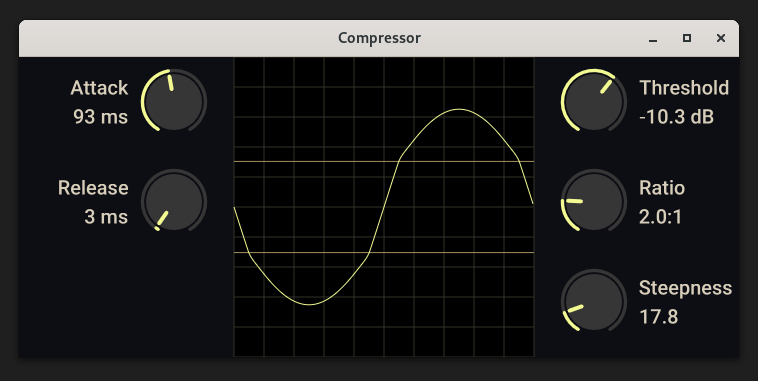
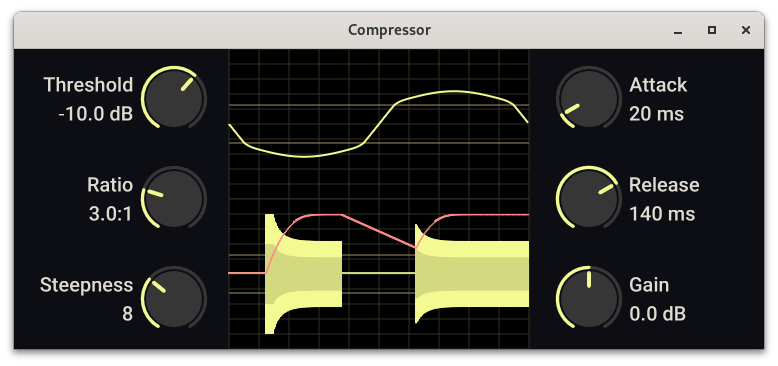
Add gain knob

diff --git a/src/editor/stylesheet.css b/src/editor/stylesheet.css
@@ -6,21 +6,19 @@
 .param_knob {
     width: 70px;
     height: 70px;
-    color: #001aff;
-    space: 10px;
+    space: 5px;
 }
 
 .param_knob_area {
     width: 200px;
     height: 70px;
-    right: 0;
-    left: 0;
+    top: 10px;
 }
 
 label {
     child-space: 1s;
     font-size: 20;
-    color: #d7ceba;
+    color: #e0dbd1;
     right: 0px;
 }
 
@@ -54,14 +52,14 @@ sineview {
     background-color: #f3fa92;
     width: 300px;
     space: 0px;
-    left: 15px;
-    right: 15px;
 }
 
 timeconstants {
     background-color: #f3fa92;
     width: 300px;
     space: 0px;
-    left: 15px;
-    right: 15px;
+}
+
+.scopes {
+    right: 20px;
 }

diff --git a/src/lib.rs b/src/lib.rs
@@ -4,9 +4,9 @@ use nih_plug::prelude::*;
 use nih_plug_vizia::ViziaState;
 use std::sync::Arc;
 
+mod compressor;
 pub mod csv_debugging;
 mod editor;
-mod compressor;
 
 pub struct Compressor {
     params: Arc<CompressorParams>,
@@ -28,6 +28,8 @@ pub struct CompressorParams {
     pub release: FloatParam, // [0, inf), milliseconds
     #[id = "steepness"]
     pub steepness: FloatParam, // [0, inf)
+    #[id = "gain"]
+    pub gain: FloatParam, // stored as gain, entered in dB
 
     #[cfg(feature = "detailed_debugging")]
     #[id = "logger_length"]
@@ -42,25 +44,43 @@ impl Compressor {
         _context: &mut impl ProcessContext<Self>,
     ) -> Result<(), &'static str> {
         #[cfg(feature = "detailed_debugging")]
-        self.algo.logger.set_quit_after_n_samples(self.params.logger_length.value());
+        self.algo
+            .logger
+            .set_quit_after_n_samples(self.params.logger_length.value());
 
         for channel_samples in buffer.iter_samples() {
             // TODO: can be seen from audio layout right?
-            #[cfg(feature = "detailed_debugging")] {
+            #[cfg(feature = "detailed_debugging")]
+            {
                 if channel_samples.len() > 1 {
-                    panic!("Too many channels for detailed debugging to support: {:?}", channel_samples.len());
+                    panic!(
+                        "Too many channels for detailed debugging to support: {:?}",
+                        channel_samples.len()
+                    );
                 }
             }
 
-            // TODO: make smoothed.next() instead of value
             let threshold = self.params.threshold.smoothed.next();
             let ratio = self.params.ratio.smoothed.next();
             let attack = self.params.attack.smoothed.next() / 1000.0;
             let release = self.params.release.smoothed.next() / 1000.0;
             let steepness = self.params.steepness.smoothed.next();
+            let gain = self.params.gain.smoothed.next();
 
-            self.algo.process_samples(channel_samples.into_iter().next().expect("Expect at least one channel"), 
-                compressor::RawParameters { threshold, ratio, steepness, attack, release })?;
+            self.algo.process_samples(
+                channel_samples
+                    .into_iter()
+                    .next()
+                    .expect("Expect at least one channel"),
+                compressor::RawParameters {
+                    threshold,
+                    ratio,
+                    steepness,
+                    attack,
+                    release,
+                    gain,
+                },
+            )?;
         }
 
         Ok(())
@@ -83,7 +103,7 @@ impl Default for CompressorParams {
             editor_state: editor::default_state(),
             threshold: FloatParam::new(
                 "Threshold",
-                util::db_to_gain(0.0),
+                util::db_to_gain(-10.0),
                 FloatRange::Skewed {
                     min: util::db_to_gain(-30.0),
                     max: util::db_to_gain(0.0),
@@ -97,7 +117,7 @@ impl Default for CompressorParams {
 
             ratio: FloatParam::new(
                 "Ratio",
-                1.0,
+                3.0,
                 FloatRange::Skewed {
                     min: 1.0,
                     max: 200.0,
@@ -110,7 +130,7 @@ impl Default for CompressorParams {
 
             attack: FloatParam::new(
                 "Attack",
-                0.0,
+                20.0,
                 FloatRange::Linear {
                     min: 0.0,
                     max: 200.0,
@@ -122,7 +142,7 @@ impl Default for CompressorParams {
 
             release: FloatParam::new(
                 "Release",
-                0.0,
+                140.0,
                 FloatRange::Linear {
                     min: 0.0,
                     max: 200.0,
@@ -134,7 +154,7 @@ impl Default for CompressorParams {
 
             steepness: FloatParam::new(
                 "Steepness",
-                300.0,
+                8.0,
                 FloatRange::Skewed {
                     min: 1.0,
                     max: 300.0,
@@ -144,11 +164,28 @@ impl Default for CompressorParams {
             .with_smoother(SmoothingStyle::Linear(1.0))
             .with_value_to_string(formatters::v2s_f32_rounded(0)),
 
+            gain: FloatParam::new(
+                "Gain",
+                1.0,
+                FloatRange::Skewed {
+                    min: util::db_to_gain(-6.0),
+                    max: util::db_to_gain(6.0),
+                    factor: FloatRange::gain_skew_factor(-6.0, 6.0),
+                },
+            )
+            .with_smoother(SmoothingStyle::Logarithmic(50.0))
+            .with_unit(" dB")
+            .with_value_to_string(formatters::v2s_f32_gain_to_db(1))
+            .with_string_to_value(formatters::s2v_f32_gain_to_db()),
+
             #[cfg(feature = "detailed_debugging")]
             logger_length: FloatParam::new(
                 "LoggerLength",
                 5000.0,
-                FloatRange::Linear { min: 0.0, max: u64::MAX as f32 }
+                FloatRange::Linear {
+                    min: 0.0,
+                    max: u64::MAX as f32,
+                },
             ),
         }
     }
@@ -200,7 +237,10 @@ impl Plugin for Compressor {
             Ok(_) => return ProcessStatus::Normal,
             Err(err) => {
                 // Also ugly
-                self.algo.logger.write_debug_values().expect("Error writing CSV file");
+                self.algo
+                    .logger
+                    .write_debug_values()
+                    .expect("Error writing CSV file");
                 // Ugly, but easiest way to stop plugin right now...
                 panic!("Processing aborted with: {}", err);
                 // match self.logger.write_debug_values() {

diff --git a/src/editor.rs b/src/editor.rs
@@ -54,10 +54,29 @@ pub(crate) fn create(
 
         HStack::new(cx, |cx| {
             VStack::new(cx, |cx| {
-                ParamKnob::new(cx, Data::params, |p| &p.attack, LabelAlignment::Left, Rc::clone(&scope_listeners));
-                ParamKnob::new(cx, Data::params, |p| &p.release, LabelAlignment::Left, Rc::clone(&scope_listeners));
+                ParamKnob::new(
+                    cx,
+                    Data::params,
+                    |p| &p.threshold,
+                    LabelAlignment::Left,
+                    Rc::clone(&scope_listeners),
+                );
+                ParamKnob::new(
+                    cx,
+                    Data::params,
+                    |p| &p.ratio,
+                    LabelAlignment::Left,
+                    Rc::clone(&scope_listeners),
+                );
+                ParamKnob::new(
+                    cx,
+                    Data::params,
+                    |p| &p.steepness,
+                    LabelAlignment::Left,
+                    Rc::clone(&scope_listeners),
+                );
             })
-            .height(Pixels(200.0));
+            .height(Pixels(300.0));
 
             VStack::new(cx, |cx| {
                 let sine_view = SineView::new(
@@ -98,13 +117,31 @@ pub(crate) fn create(
                     listeners_ref.push(sine_view);
                     listeners_ref.push(rel_atk_view);
                 }
-            });
-
+            })
+            .class("scopes");
 
             VStack::new(cx, |cx| {
-                ParamKnob::new(cx, Data::params, |p| &p.threshold, LabelAlignment::Right, Rc::clone(&scope_listeners));
-                ParamKnob::new(cx, Data::params, |p| &p.ratio, LabelAlignment::Right, Rc::clone(&scope_listeners));
-                ParamKnob::new(cx, Data::params, |p| &p.steepness, LabelAlignment::Right, Rc::clone(&scope_listeners));
+                ParamKnob::new(
+                    cx,
+                    Data::params,
+                    |p| &p.attack,
+                    LabelAlignment::Right,
+                    Rc::clone(&scope_listeners),
+                );
+                ParamKnob::new(
+                    cx,
+                    Data::params,
+                    |p| &p.release,
+                    LabelAlignment::Right,
+                    Rc::clone(&scope_listeners),
+                );
+                ParamKnob::new(
+                    cx,
+                    Data::params,
+                    |p| &p.gain,
+                    LabelAlignment::Right,
+                    Rc::clone(&scope_listeners),
+                );
             })
             .height(Pixels(300.0));
         })

diff --git a/src/editor/sineview.rs b/src/editor/sineview.rs
@@ -57,6 +57,7 @@ impl SineView {
                         steepness: self.params.steepness.value(),
                         attack: 0.0,
                         release: 10000.0,
+                        gain: self.params.gain.value(),
                     },
                 )
                 .expect("gaat goed toooch");
@@ -127,7 +128,8 @@ impl View for SineView {
         path.move_to(bounds.x, bounds.y + bounds.h / 2.0);
         for (x, y) in self.samples.iter().enumerate() {
             let x = bounds.x + x as f32;
-            let y = bounds.y + *y * bounds.h / 2.5 + bounds.h / 2.0;
+            let clipped_y = y.clamp(-1.0, 1.0);
+            let y = bounds.y + clipped_y * bounds.h / 2.5 + bounds.h / 2.0;
             path.line_to(x, y);
         }
 
@@ -184,9 +186,10 @@ impl TimeConstantsView {
                         steepness: self.params.steepness.value(),
                         attack: self.params.attack.value() / 1000.0,
                         release: self.params.release.value() / 1000.0,
+                        gain: self.params.gain.value(),
                     },
                 )
-                .expect("gaat goed toooch");
+                .expect("expect no debugging features to be enabled, so no panics either.");
 
             self.envelope.push(self.algo.get_envelope());
         });
@@ -270,13 +273,13 @@ impl View for TimeConstantsView {
                 let (min, max) =
                     extrema.expect("Expect there not be NaN's etc in a plotted graph");
 
-                let max = if min - max == 0.0 {
-                    min + 1.5 / bounds.h
+                let max = if max - min < 2.0 / bounds.h {
+                    max + 4.0 / bounds.h
                 } else {
                     max
                 };
 
-                let y_loc = |y: f32| bounds.y - scale * y * bounds.h / 2.5 + bounds.h / 2.0;
+                let y_loc = |y: f32| bounds.y - scale * y.clamp(-1.0, 1.0) * bounds.h / 2.5 + bounds.h / 2.0;
 
                 path.move_to(x, y_loc(min));
                 path.line_to(x, y_loc(max));

diff --git a/src/compressor.rs b/src/compressor.rs
@@ -13,6 +13,7 @@ pub struct RawParameters {
     pub steepness: f32,
     pub attack: f32,
     pub release: f32,
+    pub gain: f32,
 }
 
 impl Algo {
@@ -71,6 +72,8 @@ impl Algo {
 
         let mix = sigmoid(distance_from_threshold);
         *sample = *sample * (1.0 - mix) + wet * mix;
+
+        *sample *= p.gain;
 
         self.logger.write("mix", mix)?;
             self.logger.write("after", *sample)?;
